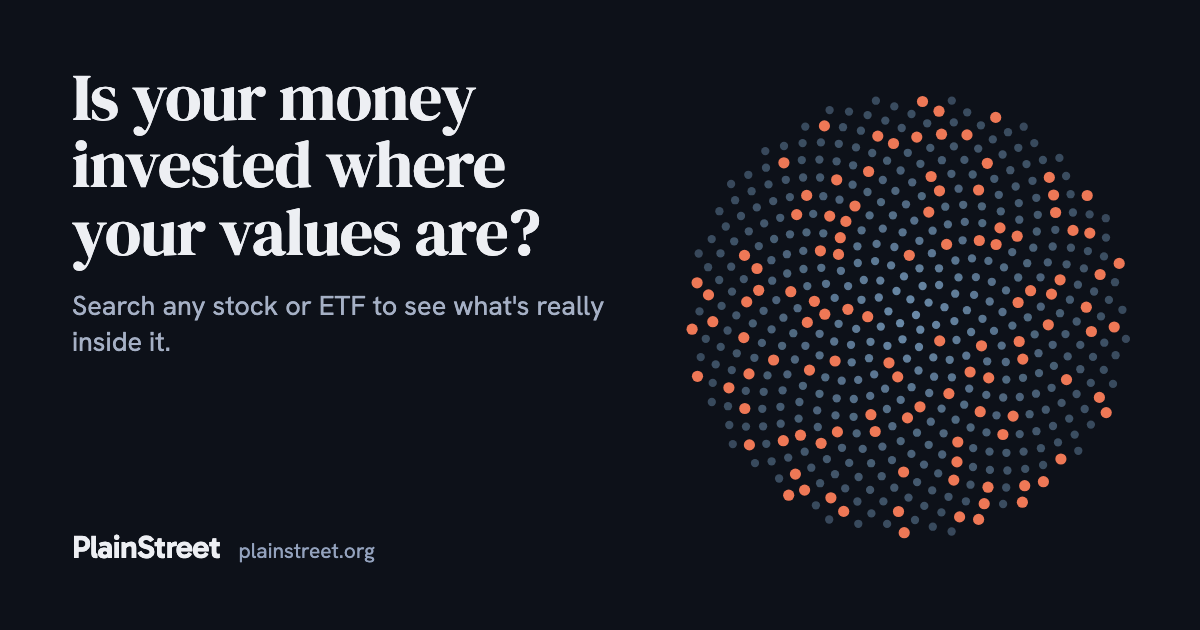
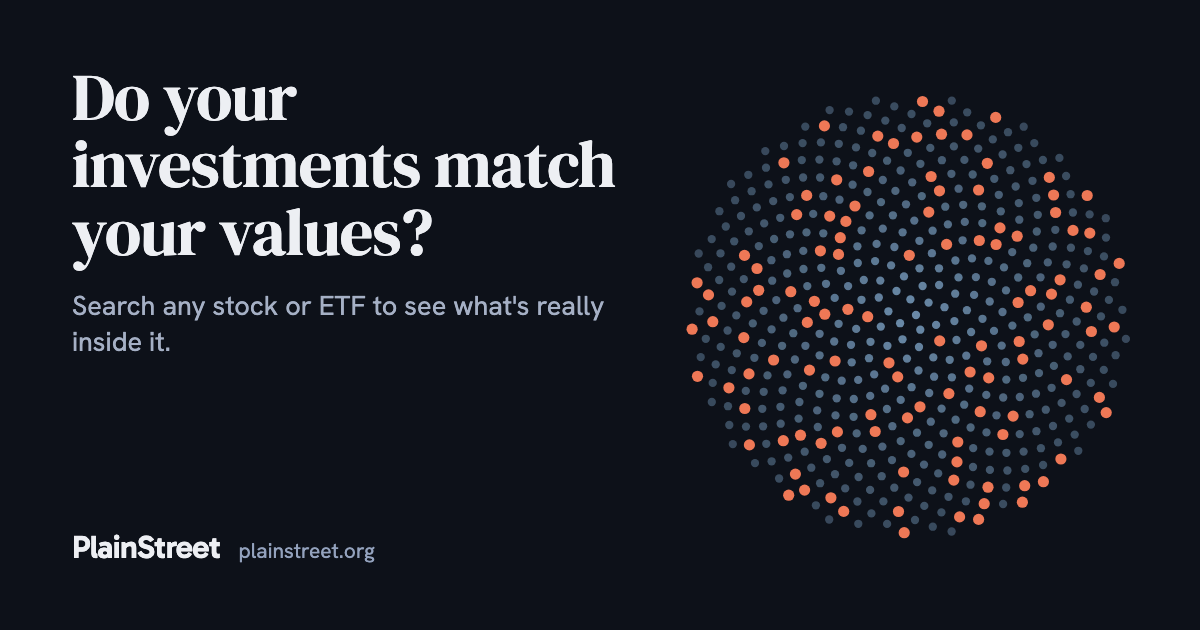
Smoother nav transitions, new search title and share headline
- Nav links (News, How it works) glide to their section with an eased
  scroll that stops below the sticky nav, instead of the browser's
  instant jump. Methodology fades in. Back returns to the section you
  were on. Nav links get a sliding underline. Instant for anyone who
  asked their device for less motion.
- Google title: "PlainStreet: What are you really investing in?" with a
  new description.
- Shared-link headline and preview image: "Do your investments match
  your values?"
- News: video links are skipped, and a story without a photo shows the
  outlet's name instead of a blank tile.

Changed region(s): [[0.0617, 0.1206, 0.5242, 0.3016], [0.3392, 0.3317, 0.4625, 0.4222]]

diff --git a/src/Analyzer.jsx b/src/Analyzer.jsx
@@ -220,7 +220,8 @@ function syncUrl(symbol, selected, screens, vs = "") {
     // Keys are [a-z_] so the comma can stay readable instead of becoming %2C.
     // Nothing selected leaves ?only= off; an empty one would just be noise in a shared link.
     if (selected && selected.size && screens.length && selected.size < screens.length) qs += `&only=${[...selected].join(",")}`;
-    window.history.replaceState(null, "", qs);
+    // Keep "#news" or "#how-it-works" so Back still returns to that section.
+    window.history.replaceState(null, "", qs + (window.location.hash !== "#methodology" ? window.location.hash : ""));
   } catch { /* ignore */ }
 }
 // Faith-based starting sets. A preset only selects screens that already exist, so it
@@ -2087,9 +2088,15 @@ function HotNews({ wrap }) {
                    position: "relative", display: "block", overflow: "hidden", textDecoration: "none", color: "inherit",
                    height: 340, background: P.card, flex: "0 0 clamp(250px, 31%, 340px)", scrollSnapAlign: "start",
                  }}>
-                {it.image && (
+                {it.image ? (
                   <img src={it.image} alt="" loading="lazy"
                        style={{ position: "absolute", inset: 0, width: "100%", height: "100%", objectFit: "cover", display: "block" }} />
+                ) : (
+                  // No photo in the outlet's feed: the outlet's name
+                  // fills the space instead of a blank card.
+                  <div aria-hidden style={{ position: "absolute", inset: 0, padding: "24px 18px", background: `linear-gradient(160deg, ${A.raised}, ${P.card})` }}>
+                    <div style={{ fontFamily: headline, fontSize: 40, lineHeight: 1, color: "rgba(156,203,245,0.22)", letterSpacing: "-0.01em" }}>{it.source}</div>
+                  </div>
                 )}
                 <div aria-hidden style={{ position: "absolute", inset: 0,
                   background: "linear-gradient(to bottom, rgba(13,17,25,0) 30%, rgba(13,17,25,0.72) 58%, rgba(13,17,25,0.96) 100%)" }} />
@@ -2170,28 +2177,102 @@ const METHOD_CATALOGUE = [
 ];
 
 // ── Landing ─────────────────────────────────────────────────────────────────
+// An eased scroll we control, instead of the browser's instant jump to an anchor. It
+// stops if the reader scrolls themselves, and is instant for anyone who asked their
+// device for less motion.
+const reducedMotion = () => typeof window !== "undefined" && window.matchMedia?.("(prefers-reduced-motion: reduce)").matches;
+let scrollAnim = null;
+// `to` is a number or a function; a function is asked again every frame, so the scroll
+// still lands on a section that moves while content above it loads.
+function easeScrollTo(to) {
+  if (scrollAnim) scrollAnim.stop();
+  const target = typeof to === "function" ? to : () => to;
+  const from = window.scrollY, dist = target() - from;
+  if (reducedMotion() || Math.abs(dist) < 2) { window.scrollTo(0, target()); return; }
+  const ms = Math.min(950, Math.max(450, Math.abs(dist) * 0.4));
+  const ease = (t) => (t < 0.5 ? 4 * t * t * t : 1 - Math.pow(-2 * t + 2, 3) / 2);
+  const start = performance.now();
+  let raf = 0;
+  const stop = () => { cancelAnimationFrame(raf); window.removeEventListener("wheel", stop); window.removeEventListener("touchstart", stop); scrollAnim = null; };
+  const step = (now) => {
+    const t = Math.min(1, (now - start) / ms);
+    window.scrollTo(0, from + (target() - from) * ease(t));
+    if (t < 1) raf = requestAnimationFrame(step); else stop();
+  };
+  window.addEventListener("wheel", stop, { passive: true });
+  window.addEventListener("touchstart", stop, { passive: true });
+  raf = requestAnimationFrame(step);
+  scrollAnim = { stop };
+}
+// The section's top, just below the sticky nav.
+const sectionTop = (el) => el.getBoundingClientRect().top + window.scrollY - (document.querySelector("nav")?.offsetHeight || 0) - 12;
+
+const PAGE_CSS = `
+@keyframes ps-page-in { from { opacity: 0; transform: translateY(10px); } to { opacity: 1; transform: none; } }
+.ps-page { animation: ps-page-in .45s cubic-bezier(.2,.7,.2,1) both; }
+.ps-nav-link { position: relative; padding: 4px 0; }
+.ps-nav-link::after { content: ""; position: absolute; left: 0; right: 0; bottom: -2px; height: 2px; border-radius: 2px;
+  background: ${P.sky}; transform: scaleX(0); transform-origin: left; transition: transform .28s cubic-bezier(.2,.7,.2,1); }
+.ps-nav-link:hover::after, .ps-nav-link[aria-current="true"]::after { transform: scaleX(1); }
+@media (prefers-reduced-motion: reduce) { .ps-page { animation: none; } .ps-nav-link::after { transition: none; } }
+`;
+
 function Landing({ onStart, onSignIn, onPick }) {
-  const [route, setRoute] = useState(typeof window !== "undefined" ? window.location.hash : "");
+  // `n` changes on every click, so clicking "News" twice still scrolls back to it.
+  const [nav, setNav] = useState(() => ({ route: typeof window !== "undefined" ? window.location.hash : "", n: 0 }));
+  const route = nav.route;
+  const page = route === "#methodology" ? "methodology" : "home";
   // Server capabilities + data freshness, fetched once and handed to the hero: whether
   // brokerage connect is configured (decides which call-to-action to show) and how many
   // companies the data covers.
   const [server, setServer] = useState({ snaptrade: null, meta: null });
   useEffect(() => {
-    const h = () => setRoute(window.location.hash);
-    window.addEventListener("hashchange", h);
+    // In-page links ("#news", "#methodology", "#" for the top) are handled here so the
+    // browser never jumps: the address bar is updated and the effect below scrolls.
+    const onClick = (e) => {
+      if (e.defaultPrevented || e.button !== 0 || e.metaKey || e.ctrlKey || e.shiftKey || e.altKey) return;
+      const a = e.target.closest?.('a[href^="#"]');
+      if (!a) return;
+      const hash = a.getAttribute("href");
+      e.preventDefault();
+      history.pushState(null, "", hash === "#" ? location.pathname + location.search : hash);
+      setNav((p) => ({ route: hash === "#" ? "" : hash, n: p.n + 1 }));
+    };
+    const onPop = () => setNav((p) => ({ route: window.location.hash, n: p.n + 1 }));
+    document.addEventListener("click", onClick);
+    window.addEventListener("popstate", onPop);
+    window.addEventListener("hashchange", onPop);
     api("/api/screens").then((d) => setServer({ snaptrade: !!d.snaptrade, meta: d.data || null })).catch(() => {});
-    return () => window.removeEventListener("hashchange", h);
+    return () => { document.removeEventListener("click", onClick); window.removeEventListener("popstate", onPop); window.removeEventListener("hashchange", onPop); };
   }, []);
-  // "#methodology" is its own page and opens at the top. Any other hash is a section on the
-  // home page (#news, #how-it-works), so scroll to it once the page is on screen.
+  // A new page (Methodology, or back home from it) fades in from its top. A section on the
+  // page you're already on is reached with an eased scroll.
+  const lastPage = useRef(page);
   useEffect(() => {
+    const changedPage = lastPage.current !== page;
+    lastPage.current = page;
     const id = route.slice(1);
-    const el = id && route !== "#methodology" ? document.getElementById(id) : null;
-    if (el) el.scrollIntoView({ behavior: "smooth", block: "start" });
-    else window.scrollTo(0, 0);
-  }, [route]);
-  if (route === "#methodology") return <Methodology onStart={onStart} />;
-  return <LandingHome onStart={onStart} onSignIn={onSignIn} onPick={onPick} snaptrade={server.snaptrade} meta={server.meta} />;
+    const el = id && page === "home" ? document.getElementById(id) : null;
+    if (changedPage) {
+      window.scrollTo(0, 0);
+      // Give the home page a moment to lay out (the search result loads in) first.
+      if (el) setTimeout(() => easeScrollTo(() => sectionTop(el)), 350);
+      return;
+    }
+    if (el) easeScrollTo(() => sectionTop(el));
+    else if (nav.n > 0) easeScrollTo(0);
+    // eslint-disable-next-line react-hooks/exhaustive-deps
+  }, [nav]);
+  return (
+    <>
+      <style>{PAGE_CSS}</style>
+      <div key={page} className="ps-page">
+        {page === "methodology"
+          ? <Methodology onStart={onStart} />
+          : <LandingHome onStart={onStart} onSignIn={onSignIn} onPick={onPick} snaptrade={server.snaptrade} meta={server.meta} route={route} />}
+      </div>
+    </>
+  );
 }
 
 // ── Methodology ───────────────────────────────────────────────────────────────
@@ -2426,7 +2507,7 @@ function HeroArt() {
   );
 }
 
-function LandingHome({ onStart, onSignIn, onPick, snaptrade, meta }) {
+function LandingHome({ onStart, onSignIn, onPick, snaptrade, meta, route = "" }) {
   const wrap = { maxWidth: 1000, margin: "0 auto", padding: "0 24px" };
   const steps = [
     { n: "1", t: "Pick what matters to you", b: "Fossil fuels, weapons, tobacco, gambling, surveillance, and more. Flip on the causes you care about. We only ever check for what you choose." },
@@ -2454,9 +2535,9 @@ function LandingHome({ onStart, onSignIn, onPick, snaptrade, meta }) {
           <div style={{ display: "flex", alignItems: "center", justifyContent: "space-between", gap: 20, padding: "14px clamp(16px,3vw,28px)" }}>
             <span style={{ flexShrink: 0, fontFamily: wordmark, fontSize: 25, fontWeight: 600, color: L.ink, letterSpacing: "-0.02em" }}>PlainStreet</span>
             <div className="ps-nav-actions" style={{ display: "flex", alignItems: "center", gap: 26 }}>
-              <a href="#news" className="ps-nav-extra" style={{ fontFamily: sans, fontSize: 15, color: L.ink, textDecoration: "none" }}>News</a>
-              <a href="#how-it-works" className="ps-nav-extra" style={{ fontFamily: sans, fontSize: 15, color: L.ink, textDecoration: "none" }}>How it works</a>
-              <a href="#methodology" className="ps-nav-methodology" style={{ fontFamily: sans, fontSize: 15, color: L.ink, textDecoration: "none" }}>Methodology</a>
+              <a href="#news" aria-current={route === "#news"} className="ps-nav-extra ps-nav-link" style={{ fontFamily: sans, fontSize: 15, color: L.ink, textDecoration: "none" }}>News</a>
+              <a href="#how-it-works" aria-current={route === "#how-it-works"} className="ps-nav-extra ps-nav-link" style={{ fontFamily: sans, fontSize: 15, color: L.ink, textDecoration: "none" }}>How it works</a>
+              <a href="#methodology" className="ps-nav-methodology ps-nav-link" style={{ fontFamily: sans, fontSize: 15, color: L.ink, textDecoration: "none" }}>Methodology</a>
               <button onClick={onSignIn} style={{ background: "none", border: "none", padding: 0, cursor: "pointer", fontFamily: sans, fontSize: 15, color: L.ink }}>Sign in</button>
               <button onClick={onStart} style={startBtn(999, "10px 20px", 15)}>Get started</button>
             </div>

diff --git a/index.html b/index.html
@@ -8,22 +8,22 @@
     <link rel="apple-touch-icon" href="/apple-touch-icon.png" />
     <link rel="manifest" href="/site.webmanifest" />
     <meta name="viewport" content="width=device-width, initial-scale=1.0" />
-    <title>PlainStreet: see what's really inside your index fund</title>
-    <meta name="description" content="Search any stock or ETF ticker. PlainStreet names the fossil fuel, weapons, tobacco, opioid and surveillance companies inside it, each with a one-sentence reason and a source. Free, no account needed." />
+    <title>PlainStreet: What are you really investing in?</title>
+    <meta name="description" content="Search any stock or ETF ticker. Explore company exposure to controversial ethics and corporate risk, from fossil fuels and weapons to opioids and surveillance." />
     <meta name="theme-color" content="#0D1119" />
     <link rel="canonical" href="https://www.plainstreet.org/" />
     <!-- Link previews. Crawlers that read Open Graph get a per-ticker version of these
          from /api/share (see vercel.json); this static set is the fallback. -->
     <meta property="og:type" content="website" />
     <meta property="og:site_name" content="PlainStreet" />
-    <meta property="og:title" content="Is your money invested where your values are?" />
+    <meta property="og:title" content="Do your investments match your values?" />
     <meta property="og:description" content="Search any stock or ETF ticker to see the companies hiding inside it: fossil fuels, weapons, tobacco, opioids, surveillance, each with a reason and a source." />
     <meta property="og:url" content="https://www.plainstreet.org/" />
     <meta property="og:image" content="https://www.plainstreet.org/og/default.png" />
     <meta property="og:image:width" content="1200" />
     <meta property="og:image:height" content="630" />
     <meta name="twitter:card" content="summary_large_image" />
-    <meta name="twitter:title" content="Is your money invested where your values are?" />
+    <meta name="twitter:title" content="Do your investments match your values?" />
     <meta name="twitter:description" content="Search any stock or ETF ticker to see the companies hiding inside it." />
     <meta name="twitter:image" content="https://www.plainstreet.org/og/default.png" />
     <link rel="preconnect" href="https://fonts.googleapis.com" />

diff --git a/server/lib/share.js b/server/lib/share.js
@@ -40,8 +40,8 @@ export function shareMeta(symbol) {
   const r = lookupSymbol(symbol);
   const sym = r?.symbol || String(symbol || "").toUpperCase();
   const fallback = {
-    title: "PlainStreet: see what's really inside your index fund",
-    description: "Search any stock or ETF ticker. We name the fossil fuel, weapons, tobacco, opioid and surveillance companies inside it, each with a one-sentence reason and a source.",
+    title: "PlainStreet: What are you really investing in?",
+    description: "Search any stock or ETF ticker. Explore company exposure to controversial ethics and corporate risk, from fossil fuels and weapons to opioids and surveillance.",
     ogImage: "/og/default.png", groups: [], r,
   };
   if (!r) return fallback;

diff --git a/server/lib/news.js b/server/lib/news.js
@@ -76,6 +76,9 @@ export function parseFeed(xml) {
       || unescaped.match(/<img[^>]+src=["'](https:[^"']+)["']/)?.[1] || null;
     const image = candidate && IMAGE_HOSTS.test(decodeEntities(candidate)) ? decodeEntities(candidate) : null;
     if (!title || !link) continue;
+    // Videos and quizzes ride along in some feeds; this strip is
+    // for reported stories.
+    if (/\/videos?\//.test(link)) continue;
     items.push({ title, link, description, image, publishedAt: pubDate ? new Date(pubDate).toISOString() : null });
   }
   return items;
